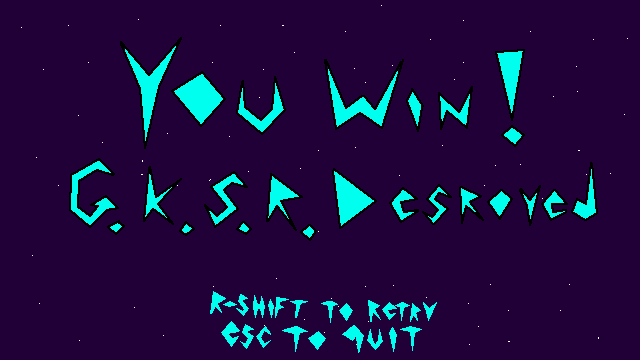
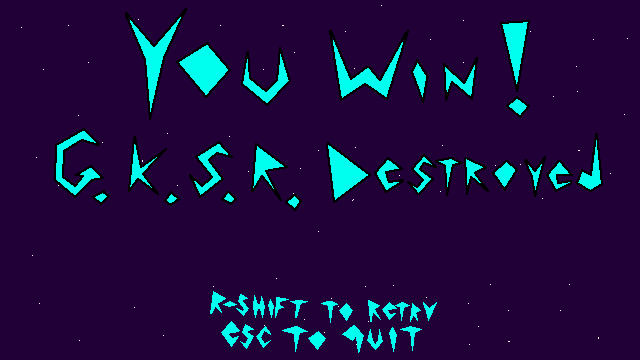
Corrected overlooked spelling mistake in player victory game end screen. Modified MovingObject class's constructor to use a Sprite instead of an AnimatedSprite if the path string in the sprite_details parameter is ''. Changed Player's speed to be proportional to the 1920x1080 aspect ratio.

Changed region(s): [[0.0625, 0.0306, 0.5, 0.6722], [0.5, 0.3667, 0.9688, 0.6417], [0.5, 0.0611, 0.8438, 0.3972]]

diff --git a/src/project.py b/src/project.py
@@ -133,7 +133,7 @@ class Character():
         self.sprite.draw(screen)   
 
 class Player(Character):
-    def __init__(self, sprite_details=('images\\player\\character\\', 4, 12), pos=(0, 0), lim=(0, DISPLAY_HEIGHT), hb=(20, 20), hp=5, s=200, cdt=0.5):
+    def __init__(self, sprite_details=('images\\player\\character\\', 4, 12), pos=(0, 0), lim=(0, DISPLAY_HEIGHT), hb=(20, 20), hp=5, s=300, cdt=0.5):
         super().__init__(sprite_details, pos, lim, hb, hp, s, cdt)
 
         self.powerup_effect_duration = 0.0
@@ -277,7 +277,11 @@ class MovingObject():
         self.hitbox_rect = pygame.Rect((0, 0), hb)
         self.hitbox_rect.center = self.position_vector()
 
-        self.sprite = AnimatedSprite(sprite_details[0], pos, sprite_details[1], sprite_details[2])
+        self.sprite = None
+        if sprite_details[1] != '':
+            self.sprite = AnimatedSprite(sprite_details[0], pos, sprite_details[1], sprite_details[2])
+        else:
+            self.sprite = Sprite(sprite_details[0], pos, sprite_details[1], sprite_details[2])
 
         self.speed = s
         self.direction = dir
@@ -505,7 +509,7 @@ def main():
             player = Player(pos=(150, 630), lim=(345, 960), hb=(60, 60), hp=5)
             player_projectiles = []
 
-            gksr = GiantKillerSpaceRobot(pos=(1575, 630), lim=(270, 990), hb=(300, 750), po=8)
+            gksr = GiantKillerSpaceRobot(pos=(1575, 630), lim=(270, 910), hb=(300, 750), po=8)
             gksr_projectiles = []
 
             powerups = []
